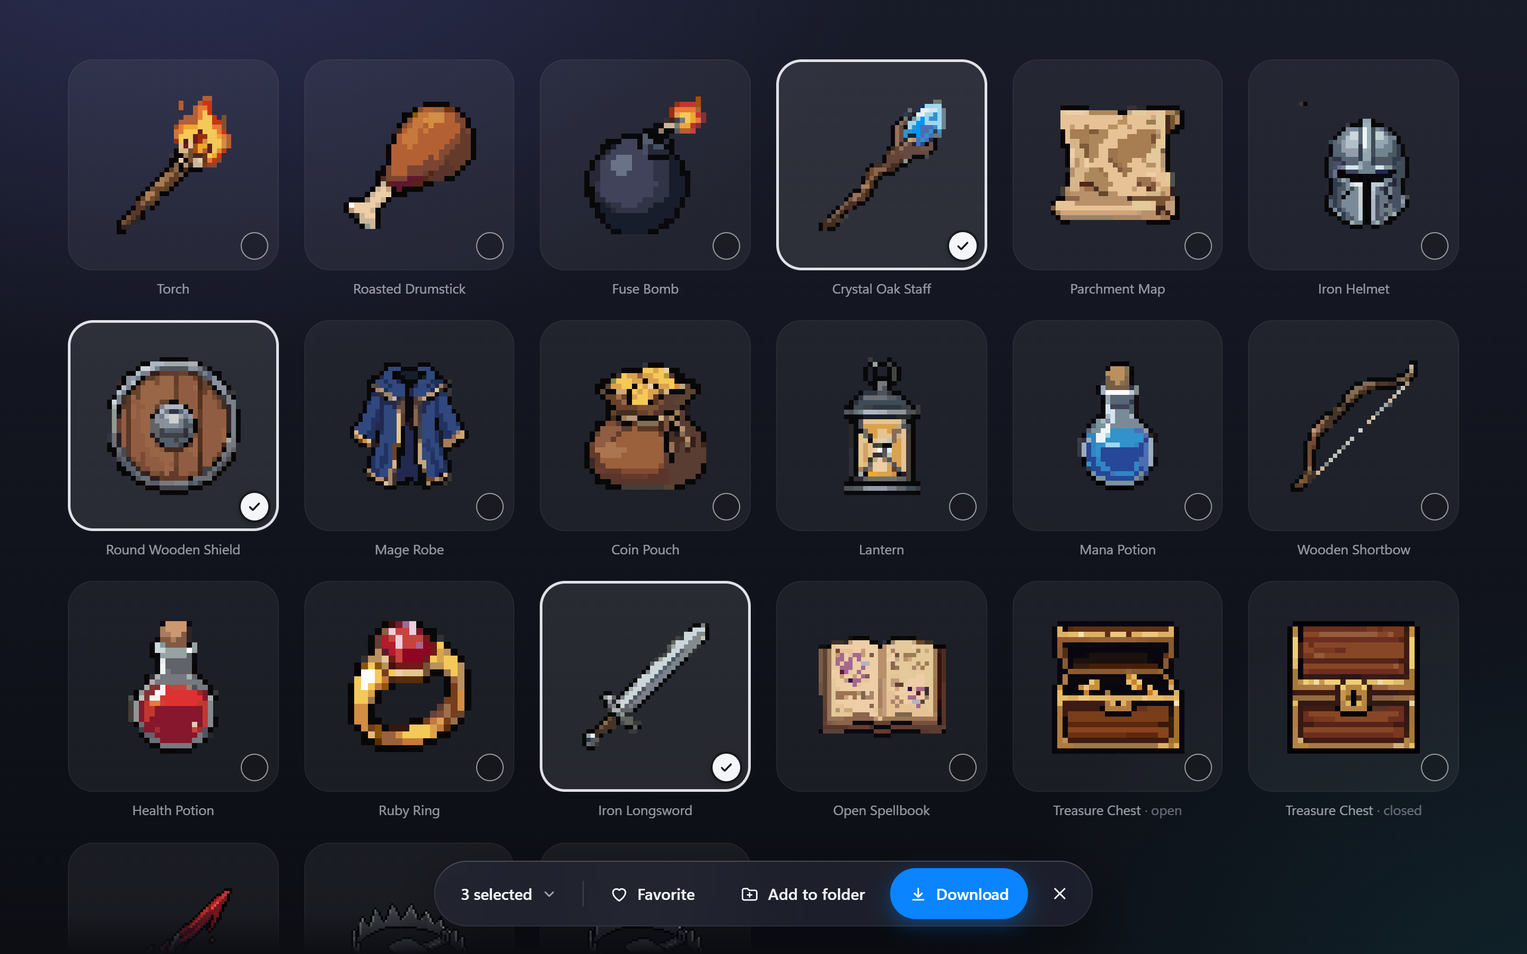
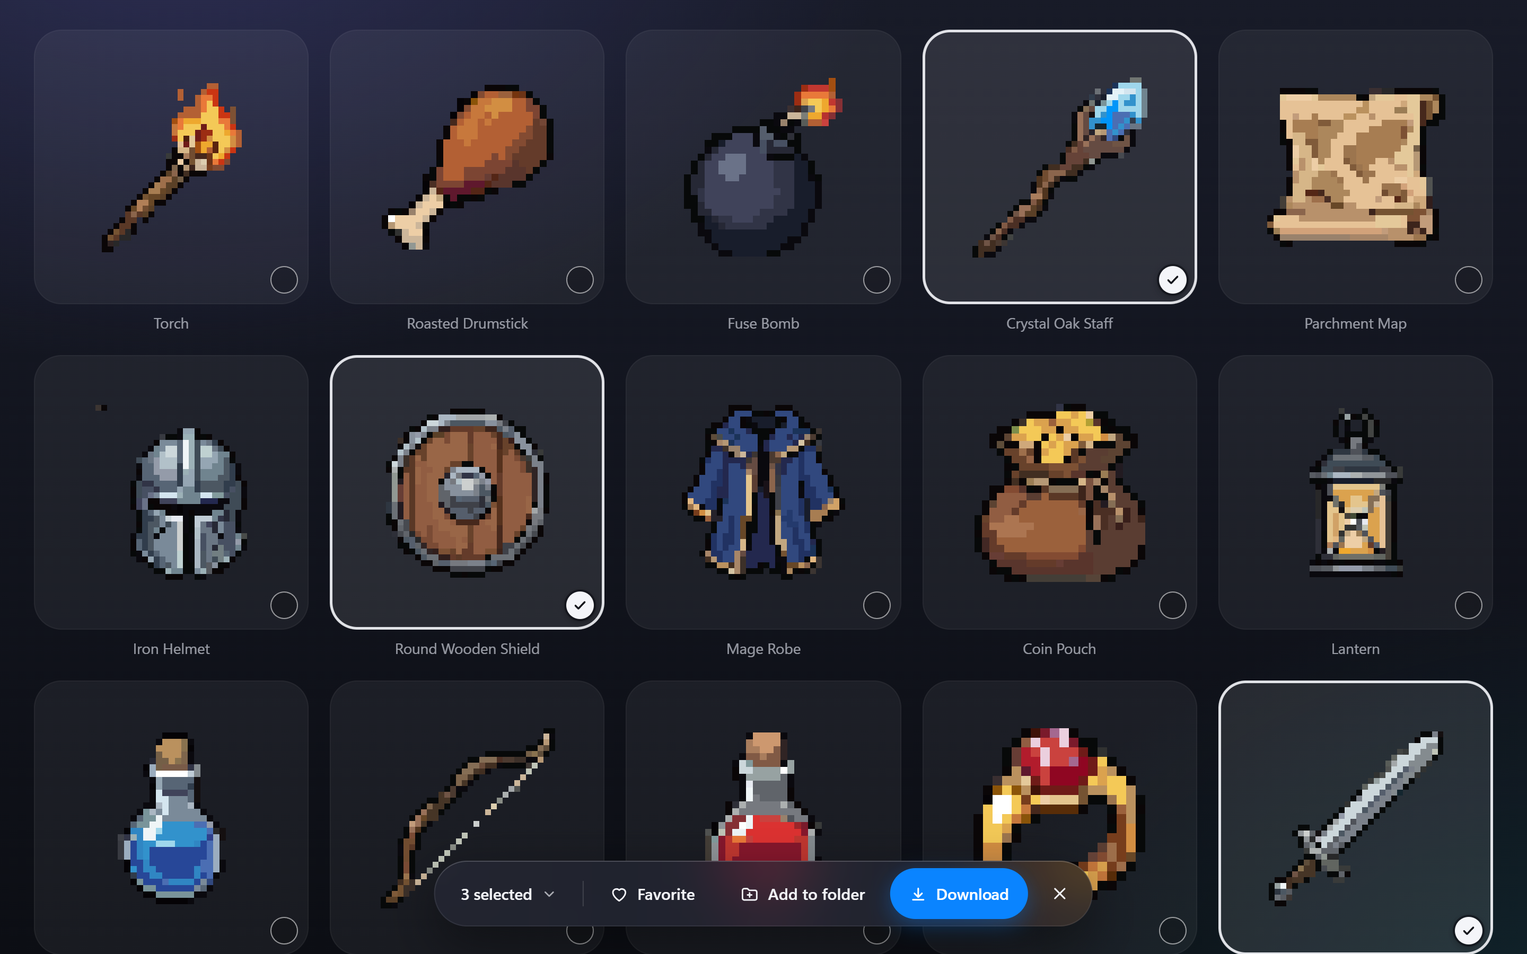
docs: enlarge glass library tiles to fill the screen
Bigger library tiles and asset cells run edge to edge and scroll
under the floating glass dock instead of leaving empty bands.

diff --git a/mockups/simple/4-glass-library/app.js b/mockups/simple/4-glass-library/app.js
@@ -34,17 +34,17 @@ const T = [
   ['Characters', n('Characters'), ['char-android-walk-east-f00', 'char-orb-mage-south', 'char-hooded-mage-south-east', 'char-hooded-mage-detailed-south-west']],
   ['Objects', n('Objects'), ['obj-bear-trap-open', 'obj-treasure-chest-closed', 'obj-crimson-lance', 'item-red-health-potion', 'item-iron-helmet', 'item-lantern', 'item-ruby-ring']],
   ['Images', n('Images'), ['creator-goblin-idle-f00', 'creator-white-bird-east', 'vfx-meteor-f12', 'creator-slime-sheet|cover|1', 'creator-fire-skill-icons|cover|1', 'creator-food-atlas|cover|1', 'creator-block-textures-16|cover|2']],
-  ['Tilesets & tiles', n('Tilesets & tiles'), ['tileset-topdown-dirt-grass-detailed|cover|4', 'tileset-topdown-stone-floor-wall|cover|4', 'iso-grass-block', 'tileset-side-frozen-ledge|full|0', 'iso-stone-slab', 'tilespro-wooden-stairs|full|0', 'tileset-side-dirt-grass|full|0']],
+  ['Tilesets & tiles', n('Tilesets & tiles'), ['tileset-topdown-dirt-grass-detailed|cover|7', 'tileset-topdown-stone-floor-wall|cover|7', 'iso-grass-block', 'tileset-side-frozen-ledge|full|0', 'iso-stone-slab', 'tilespro-wooden-stairs|full|0', 'tileset-side-dirt-grass|full|0']],
   ['Maps', n('Maps'), ['map-meadow-ruins|cover|2', 'mapobj-ruined-apartment', 'mapobj-wooden-staircase-west', 'mapobj-stone-steps-east']],
-  ['UI', n('UI'), ['ui-skill-icon-frames|cover|1', 'ui-gilded-panel-kit|cover|1', 'ui-stone-9slice-kit|cover|1', 'ui-rts-command-bar|cover|1', 'ui-fantasy-hud|cover|1', 'ui-rts-components|cover|1', 'font-tiny-mono-atlas|cover|2']],
+  ['UI', n('UI'), ['ui-skill-icon-frames|cover|2', 'ui-gilded-panel-kit|cover|1', 'ui-stone-9slice-kit|cover|1', 'ui-rts-command-bar|cover|1', 'ui-fantasy-hud|cover|1', 'ui-rts-components|cover|1', 'font-tiny-mono-atlas|cover|2']],
 ];
 const M = [
-  ['Favorites', D.favorites.length, ['char-android-walk-south-f00', 'vfx-meteor-f12', 'map-meadow-ruins|cover|2', 'tileset-topdown-dirt-grass-detailed|cover|2', 'creator-goblin-idle-f00', 'tileset-side-frozen-ledge|cover|1', 'obj-bear-trap-open'], 1],
+  ['Favorites', D.favorites.length, ['char-android-walk-south-f00', 'vfx-meteor-f12', 'map-meadow-ruins|cover|2', 'tileset-topdown-dirt-grass-detailed|cover|4', 'creator-goblin-idle-f00', 'tileset-side-frozen-ledge|cover|2', 'obj-bear-trap-open'], 1],
   ['Hero party', fn('fld_01'), ['char-orb-mage-south-east', 'char-hooded-mage-detailed-south', 'obj-crimson-lance', 'char-android-walk-south-f00', 'item-iron-longsword', 'item-oak-magic-staff-crystal', 'item-mage-robe'], 1],
-  ['Dungeon kit', fn('fld_02'), ['obj-treasure-chest-open', 'obj-bear-trap-closed', 'tileset-topdown-stone-floor-wall|cover|3', 'mapobj-wooden-staircase-west', 'iso-stone-slab', 'tileset-side-castle|cover|1', 'tilespro-wooden-stairs|cover|1'], 1],
-  ['UI pack', fn('fld_03'), ['ui-fantasy-hud|cover|1', 'ui-skill-icon-frames|cover|1', 'creator-fire-skill-icons|cover|1', 'ui-rts-components|cover|1', 'font-tiny-mono-atlas|cover|1', 'creator-cyan-skill-icons|cover|1', 'creator-skill-icons-pro|cover|1'], 1],
-  ['1-bit platformer', fn('fld_04'), ['tileset-side-castle|full|0', 'tileset-side-frozen-ledge|full|0', 'tileset-side-fang-ridge|full|0', 'tileset-side-rooted-soil|cover|1', 'tileset-side-worn-stone|cover|1'], 1],
-  ['Favorites to export', fn('fld_05'), ['vfx-meteor-f12', 'creator-goblin-idle-f00', 'creator-slime-sheet|cover|1', 'char-android-walk-south-f00', 'map-meadow-ruins|cover|1', 'tileset-topdown-dirt-grass-detailed|cover|1'], 1],
+  ['Dungeon kit', fn('fld_02'), ['obj-treasure-chest-open', 'obj-bear-trap-closed', 'tileset-topdown-stone-floor-wall|cover|7', 'mapobj-wooden-staircase-west', 'iso-stone-slab', 'tileset-side-castle|cover|2', 'tilespro-wooden-stairs|cover|4'], 1],
+  ['UI pack', fn('fld_03'), ['ui-fantasy-hud|cover|1', 'ui-skill-icon-frames|cover|2', 'creator-fire-skill-icons|cover|2', 'ui-rts-components|cover|1', 'font-tiny-mono-atlas|cover|2', 'creator-cyan-skill-icons|cover|1', 'creator-skill-icons-pro|cover|1'], 1],
+  ['1-bit platformer', fn('fld_04'), ['tileset-side-castle|full|0', 'tileset-side-frozen-ledge|full|0', 'tileset-side-fang-ridge|full|0', 'tileset-side-rooted-soil|cover|2', 'tileset-side-worn-stone|cover|2'], 1],
+  ['Favorites to export', fn('fld_05'), ['vfx-meteor-f12', 'creator-goblin-idle-f00', 'creator-slime-sheet|cover|1', 'char-android-walk-south-f00', 'map-meadow-ruins|cover|1', 'tileset-topdown-dirt-grass-detailed|cover|4'], 1],
 ];
 const mcell = c => { const [a, fit, s] = c.split('|'); return `<i data-art="${a}" data-pad="${fit === 'full' ? 0.1 : 0.06}"${fit ? ` data-fit="${fit}" data-s="${s}"` : ''}></i>`; };
 const tile = ([name, count, cells, folder]) => {
@@ -71,12 +71,12 @@ const dockCat = `<nav class="dock glass"><button class="seg back">${I.back}Libra
 
 function home() { add(`<main class="library">${T.map(tile).join('')}<div class="sec mine">Favorites and folders</div>${M.map(tile).join('')}</main>`); }
 function category(selected = []) {
-  add(`<main class="grid fade${selected.length ? ' selecting' : ''}">${objects.map(a => cell(a, selected.includes(a.id))).join('')}</main>`);
+  add(`<main class="grid${selected.length ? ' selecting' : ''}">${objects.map(a => cell(a, selected.includes(a.id))).join('')}</main>`);
 }
 function viewer(info) {
   const a = byId.chr_0004;
   document.body.className = 'viewer' + (info ? ' info' : '');
-  add(`<div class="stage"><i data-art="char-android-walk-east-f03" data-fit="full" data-pad="0.02"></i></div>`,
+  add(`<div class="stage"><i data-art="char-android-walk-east-f03" data-fit="full" data-pad="0"></i></div>`,
     `<button class="fab close glass" aria-label="Close">${I.x}</button>`,
     `<div class="fab vtitle"><b>${a.name}</b><span>Character</span></div>`,
     `<div class="fab caps glass"><button aria-label="Favorite">${I.heart}</button><button class="${info ? 'on' : ''}" aria-label="Info">${I.info}</button><button aria-label="More">${I.more}</button></div>`,
@@ -144,7 +144,7 @@ const SCREENS = {
     add(m); at(m, r.right - 330, r.top - m.offsetHeight - 14);
   },
   '09-folder-open': () => {
-    home();
+    home(); document.querySelector('main').scrollTop = 1e4; // scrolled to the folders row
     const f = D.folders[0];
     add('<div class="scrim"></div>', `<div class="fopen"><div class="ftitle">${f.name}<button class="round" aria-label="Folder actions">${I.more}</button></div>
       <div class="fpanel">${f.assetIds.map(id => cell(byId[id])).join('')}</div><div class="fmeta">${f.assetIds.length} assets</div></div>`,

diff --git a/mockups/simple/4-glass-library/style.css b/mockups/simple/4-glass-library/style.css
@@ -33,34 +33,33 @@ svg { width: 20px; height: 20px; fill: none; stroke: currentColor; stroke-width:
 
 /* Content: full-screen, edge to edge, scrolls under the floating glass */
 main { position: fixed; inset: 0; overflow: hidden; }
-.fade { -webkit-mask-image: linear-gradient(#000 calc(100% - 40px), transparent); mask-image: linear-gradient(#000 calc(100% - 40px), transparent); }
 
 /* Library home: App Library tiles */
-.library { padding: 150px 60px 0; display: grid; grid-template-columns: repeat(6, minmax(0, 1fr)); gap: 0 24px; align-content: start; }
-.sec { grid-column: 1 / -1; font-size: 13px; font-weight: 600; color: var(--text-2); padding: 0 6px 12px; }
-.sec.mine { padding-top: 40px; }
+.library { padding: 28px 40px 160px; display: grid; grid-template-columns: repeat(3, minmax(0, 1fr)); gap: 28px 28px; align-content: start; overflow: hidden; } /* bottom padding: the last row scrolls clear of the dock */
+.sec { grid-column: 1 / -1; font-size: 13px; font-weight: 600; color: var(--text-2); padding: 0 8px; margin-bottom: -14px; }
+.sec.mine { padding-top: 6px; }
 .tile { display: block; color: inherit; text-decoration: none; }
 .mosaic {
-  position: relative; aspect-ratio: 1; border-radius: 30px; padding: 8px;
-  display: grid; grid-template-columns: 1fr 1fr; grid-template-rows: 1fr 1fr; gap: 6px;
+  position: relative; aspect-ratio: 4 / 2.9; border-radius: 28px; padding: 9px;
+  display: grid; grid-template-columns: 1fr 1fr; grid-template-rows: 1fr 1fr; gap: 7px;
   background: rgba(16, 18, 26, .55); box-shadow: inset 0 0 0 1px var(--hair), 0 12px 30px rgba(0, 0, 0, .25);
 }
 .mosaic > i, .mini > i { background: rgba(255, 255, 255, .055); border-radius: 20px; }
-.mini { display: grid; grid-template-columns: 1fr 1fr; grid-template-rows: 1fr 1fr; gap: 5px; }
+.mini { display: grid; grid-template-columns: 1fr 1fr; grid-template-rows: 1fr 1fr; gap: 6px; }
 .mini > i { border-radius: 12px; }
 /* Folders (yours) use the lighter frosted fill of an iOS folder; types (automatic) are darker. */
 .folder .mosaic { background: rgba(205, 212, 235, .14); box-shadow: inset 0 1px 0 rgba(255,255,255,.10), inset 0 0 0 1px rgba(255,255,255,.06), 0 12px 30px rgba(0,0,0,.25); }
 .folder .mosaic > i, .folder .mini > i { background: rgba(0, 0, 0, .16); }
-.tlabel { display: flex; justify-content: space-between; align-items: baseline; padding: 10px 8px 0; }
-.tlabel b { font-weight: 600; font-size: 15px; letter-spacing: -.012em; }
+.tlabel { display: flex; justify-content: space-between; align-items: baseline; padding: 11px 8px 0; }
+.tlabel b { font-weight: 600; font-size: 16px; letter-spacing: -.012em; }
 .tlabel span { color: var(--text-2); font-variant-numeric: tabular-nums; }
 
 /* Category grid */
-.grid { padding: 56px 64px 0; display: grid; grid-template-columns: repeat(6, minmax(0, 1fr)); gap: 22px 24px; align-content: start; }
+.grid { padding: 28px 32px 160px; display: grid; grid-template-columns: repeat(5, minmax(0, 1fr)); gap: 20px 20px; align-content: start; }
 .cell { position: relative; }
-.cell .sq { position: relative; aspect-ratio: 1; border-radius: 24px; background: rgba(255, 255, 255, .055); box-shadow: inset 0 0 0 1px rgba(255,255,255,.04); }
+.cell .sq { position: relative; aspect-ratio: 1; border-radius: 26px; background: rgba(255, 255, 255, .055); box-shadow: inset 0 0 0 1px rgba(255,255,255,.04); }
 .cell .sq > i { position: absolute; inset: 0; }
-.cell .nm { display: block; text-align: center; padding-top: 8px; font-size: 13px; color: var(--text-2); white-space: nowrap; overflow: hidden; text-overflow: ellipsis; }
+.cell .nm { display: block; text-align: center; padding-top: 9px; font-size: 14px; color: var(--text-2); white-space: nowrap; overflow: hidden; text-overflow: ellipsis; }
 .cell .nm small { color: var(--text-3); font-size: 13px; }
 .cell .chk { position: absolute; right: 10px; bottom: 10px; width: 26px; height: 26px; border-radius: 50%; display: grid; place-items: center; background: #f4f5f9; color: #12141b; box-shadow: 0 0 0 2px rgba(12,14,20,.6), 0 2px 8px rgba(0,0,0,.4); }
 .cell .chk svg { width: 16px; height: 16px; stroke-width: 2.6; }
@@ -138,7 +137,7 @@ main { position: fixed; inset: 0; overflow: hidden; }
 .ftitle { display: flex; align-items: center; gap: 12px; font: 600 30px/1.1 -apple-system, "SF Pro Display", "Segoe UI Variable Display", system-ui, sans-serif; letter-spacing: -.015em; }
 .ftitle .round { width: 38px; height: 38px; background: rgba(255,255,255,.12); }
 .ftitle .round svg { width: 18px; height: 18px; }
-.fpanel { width: 900px; padding: 34px 38px 30px; border-radius: 44px; background: rgba(205, 212, 235, .13); display: grid; grid-template-columns: repeat(4, minmax(0, 1fr)); gap: 22px 26px; }
+.fpanel { width: 1160px; padding: 32px 36px 28px; border-radius: 44px; background: rgba(205, 212, 235, .13); display: grid; grid-template-columns: repeat(4, minmax(0, 1fr)); gap: 22px 26px; }
 .fpanel .sq { background: rgba(0, 0, 0, .24); }
 .fpanel .nm { color: rgba(244,245,249,.82); }
 .fmeta { color: var(--text-2); font-size: 13px; }
@@ -147,7 +146,7 @@ main { position: fixed; inset: 0; overflow: hidden; }
 /* Viewer */
 .viewer { background: #0c0c0f; }
 .stage { position: fixed; inset: 0; background: radial-gradient(760px 560px at var(--cx, 50%) 48%, #2a2c34, #16171c 58%, #0c0c0f); }
-.stage > i { position: absolute; top: 96px; bottom: 112px; left: 0; right: 0; }
+.stage > i { position: absolute; inset: 0; } /* controls float over the canvas margin, so the art fits the whole window */
 .info .stage > i { right: 420px; }
 .info { --cx: calc((100% - 420px) / 2); }
 .fab { position: fixed; z-index: 3; }

diff --git a/mockups/simple/4-glass-library/README.md b/mockups/simple/4-glass-library/README.md
@@ -5,23 +5,32 @@ Static storyboard for Vitrine (unofficial, view-only PixelLab gallery). Desktop 
 **Concept 4 = Concept 2's chrome + Concept 3's content.**
 
 - **From Concept 2 "Home Screen":** the glass look and the floating UI. Content fills the window edge to edge. There is no top bar, sidebar or page chrome. Navigation, search and options float above the content as glass, in one dock at the bottom centre. Overlays (context menu, folder) blur the screen behind them.
-- **From Concept 3 "Library Tiles":** the iOS App Library layout. The home shows six square category tiles with mosaic previews and counts (Characters, Objects, Images, Tilesets & tiles, Maps, UI), then Favorites and the folders as tiles of the same shape. Folders use the lighter frosted fill of an iOS folder, and types use a darker fill, so "mine" and "automatic" read differently.
+- **From Concept 3 "Library Tiles":** the iOS App Library layout, at Concept 3's scale. The home shows six big category tiles with mosaic previews and counts (Characters, Objects, Images, Tilesets & tiles, Maps, UI), then Favorites and the folders as tiles of the same shape. Folders use the lighter frosted fill of an iOS folder, and types use a darker fill, so "mine" and "automatic" read differently.
 - **The dock changes with context** instead of adding bars. On the home it holds Library, Search and "…". In a category it becomes a breadcrumb ("‹ Library | Objects 21") with Search, Select and "…". In selection mode it becomes the selection bar. In the viewer it becomes the viewer dock. One container, always in the same place.
 - Download is the only accent colour, in the viewer and in the selection bar. The library screens have no accent.
+
+## Layout and scale (1440×900)
+
+- **Content fills the screen.** It starts 28 px from the top, runs to the bottom edge, and scrolls under the floating dock. Each grid has 160 px of bottom scroll padding so its last row can scroll clear of the dock. In every library screenshot the dock floats over tiles.
+- **Home:** 3 tiles per row, each about 434×315 px, with 40 px side margins and 28 px gutters. Mosaic cells are about 205×146 px, so the art reads clearly. The two type rows fill the first screen, and the "Favorites and folders" header and the top of the folder row sit under the dock, which tells you the page scrolls.
+- **Category grid:** 5 columns of square cells, about 259 px each, edge to edge with 32 px margins and 20 px gutters. A 32 px item draws at 11 device px per art px (5.5× in CSS px). The third row runs under the dock.
+- **Viewer:** the stage fits the whole canvas to the whole window, because the controls float over the canvas's transparent margin. The 128 px Android Courier draws at 14 device px per art px (7× in CSS px), the largest integer scale that fits 900 px. It keeps 7× with the Info panel open.
+- **Folder overlay:** a 1,160 px panel with 4 columns of about 252 px cells.
+- **Menus and panels:** unchanged in size. They are text, not art.
 
 ## Storyboard
 
 | # | Image | What the user pressed | What changed |
 |---|---|---|---|
-| 1 | `01-home.png` | Opened Vitrine | 6 type tiles, then "Favorites and folders" (Favorites plus 5 folders), all on one screen. Floating glass dock: **Library** (current, shown as the selected segment), **Search 75 assets** `/`, **…** |
+| 1 | `01-home.png` | Opened Vitrine | 6 big type tiles fill the screen. The "Favorites and folders" row (Favorites plus 5 folders) starts under the dock. Floating glass dock: **Library** (current, shown as the selected segment), **Search 75 assets** `/`, **…** |
 | 2 | `02-search-focused.png` | Search pill (or `/`) | The pill expands into a focused field. Library and "…" collapse into one round Library button, and the library dims a little. A glass panel rises above the dock: Recent searches, Go to (types and folders as small tiles with counts), Recently added assets, and **Show all 75 assets**. Typing replaces the panel with results; types and folders still match as Go to rows |
-| 3 | `03-category-open.png` | The Objects tile (on 01) | Full-screen grid of the 21 completed objects: square cells, integer-scaled art, quiet names, and states appended to look-alikes ("Treasure Chest · open"). The dock becomes **‹ Library** · "Objects 21" · Search · **Select** · **…**. The fourth row scrolls under the glass dock |
+| 3 | `03-category-open.png` | The Objects tile (on 01) | Full-screen grid of the 21 completed objects: square cells, integer-scaled art, quiet names, and states appended to look-alikes ("Treasure Chest · open"). The dock becomes **‹ Library** · "Objects 21" · Search · **Select** · **…**. The third row scrolls under the glass dock |
 | 4 | `04-context-menu.png` | Right-click or long press on Crystal Oak Staff | The tile lifts and the rest of the screen (dock included) blurs. Glass menu: **Open · Favorite · Add to folder… · Download… (PNG) · Select** |
 | 5 | `05-select-mode.png` | Select (in the menu or the dock), then 2 more cells | Selected cells get a white ring and a check, and the others show empty circles. The dock becomes the selection bar: **3 selected ▾ · Favorite · Add to folder · Download** (accent) **· ✕** |
-| 6 | `06-detail.png` | ✕, then a click on Android Courier | Full-screen stage, Walk · East, mid-stride (frame 4 of 8), at the largest integer zoom. Glass ✕ top left, a glass capsule top right (♡ ⓘ …), and the name "Android Courier · Character" at the top, which fades after about 2 s. The dock becomes the viewer dock: **Walk · East ▾** and **Download GIF ▾** |
+| 6 | `06-detail.png` | ✕, then a click on Android Courier | Full-screen stage, Walk · East, mid-stride (frame 4 of 8), at 7× (the largest integer zoom that fits the window). Glass ✕ top left, a glass capsule top right (♡ ⓘ …), and the name "Android Courier · Character" at the top, which fades after about 2 s. The dock becomes the viewer dock: **Walk · East ▾** and **Download GIF ▾** |
 | 7 | `07-detail-info.png` | ⓘ | A floating glass panel on the right with an Apple grouped list: name, type, size, directions, animations, frames, view and created; the prompt with **Copy**; In folders (rows that open each folder); and a quiet **Open in PixelLab ↗**. The art and the dock re-centre in the space left over |
 | 8 | `08-download-menu.png` | The Download ▾ chevron | A glass menu above the button: **GIF** (Walk · East · 8 fps, the default, ✓), **Sprite sheet (ZIP)** (PNG + JSON), **All frames (ZIP)**, **PixelLab original (ZIP)**, then **Download options…** |
-| 9 | `09-folder-open.png` | ✕ back to the home, then the Hero party tile | An iOS-style folder overlay over the blurred library: folder name with **…** (Download all, Rename, Delete folder), its 8 assets with names, the count, and a visible **✕** |
+| 9 | `09-folder-open.png` | ✕ back to the home, scrolled to the folders, then the Hero party tile | An iOS-style folder overlay over the blurred library (large 4-column tiles): folder name with **…** (Download all, Rename, Delete folder), its 8 assets with names, the count, and a visible **✕** |
 | 10 | `10-more-menu.png` | Dock **…** on the home | A glass menu above the dock: **Sort** (Newest, expands in place), **Grid size** S/M/L/XL, **Play previews** switch, **Download all 75…**, **Sync now** (Synced just now), **1 generating in PixelLab ↗**, **Keyboard shortcuts** `?`, **Settings…** |
 
 The PNGs carry no captions; this table is the caption.
@@ -71,8 +80,8 @@ Every hidden route below also has a labelled, visible path.
 ## Phone mapping
 
 - **Dock:** the same floating glass pill, in the thumb zone with safe-area padding. On the home: Library · search icon · …. The search icon expands into a full-width field with Cancel, and the search panel becomes a full-height sheet above the keyboard.
-- **Home:** 2 columns of square tiles (the real iOS App Library), with types first and then "Favorites and folders". It scrolls.
-- **Category:** 3 columns with names under the cells. The dock becomes ‹ · Objects · search icon · Select · … (the title truncates first).
+- **Home:** 2 columns of square tiles (the real iOS App Library), with types first and then "Favorites and folders". The content scrolls under the floating dock, as on desktop.
+- **Category:** 2–3 columns with names under the cells. The dock becomes ‹ · Objects · search icon · Select · … (the title truncates first).
 - **Input:** tap opens. Long press opens the context menu (one meaning everywhere), and its **Select** item enters selection. The selection bar replaces the dock, with icons only plus "3 ▾".
 - **Folder overlay:** near full screen, with ✕ and …; swiping down closes it.
 - **Viewer:** ✕ top left and the ♡ ⓘ … capsule top right. The dock becomes a full-width **Download GIF ▾** with the Walk · East chip just above it. Info and the Download menu open as bottom sheets.
@@ -80,11 +89,14 @@ Every hidden route below also has a labelled, visible path.
 ## Honest weaknesses
 
 - **Every visit costs an extra click before any full-size art.** The home only shows mosaics (Concept 3's main weakness). Recently added helps only once Search is open.
+- **Folders sit below the fold.** With big tiles, the first screen shows the six types, and Favorites and folders need a scroll. Search "Go to" and the ⓘ folder rows are the shortcuts.
 - **All assets has one visible path, behind Search.** It is labelled ("Show all 75 assets"), but it is not on the home. Anyone who browses everything will reach for it every time.
 - **The dock carries a lot.** It changes role five times (home, search, category, selection, viewer). That keeps chrome in one place, but users must notice that the same pill now means something else. The category breadcrumb, with 4 controls plus a title, is the dock's widest and busiest state.
-- **Glass over art costs contrast.** The dock (62% tint) and the menus (80%) read well over the dark grid and over the bright row that scrolls under the dock in 03 and 05. Very bright, saturated art (the map, the green tilesets) directly under a glass edge still muddies the blur and shows colour fringes (see the folder panel in 09). A real build needs a contrast check per backdrop, or a stronger scrim when bright art sits under glass.
+- **Glass over art costs contrast.** The dock (62% tint) and the menus (80%) read well over the dark grid and over the bright rows that scroll under them in 01, 03, 05 and 10. Very bright, saturated art (the map, the green tilesets) directly under a glass edge still muddies the blur and shows colour fringes (see the folder panel in 09). A real build needs a contrast check per backdrop, or a stronger scrim when bright art sits under glass.
 - **The six types are fixed.** A library with 3 characters and 900 images gets tiles of equal size. Empty types must hide, which changes the layout. At 20 or more folders, the "Favorites and folders" row needs to scroll or become an "All folders" tile.
-- **Mosaic cells are small at 6 columns** (about 90 px). Atlases and UI sheets crop into busy noise next to single sprites (see the Images, UI and UI pack tiles). The mosaics also need a picking rule (newest, favourites or most varied).
+- **Atlases and UI sheets crop into busy noise** next to single sprites, even in big mosaic cells (see the Images and UI tiles). The mosaics also need a picking rule (newest, favourites or most varied).
+- **Content under the dock must stay legible.** At 5 columns a whole cell can sit under the dock or the selection bar (05). That is acceptable while scrolling, and the bottom padding lets the last row clear the dock.
+- **Fit-to-window art crowds the floating controls.** At 7× the Courier's head nearly touches the fading title, and its feet sit just above the dock. Tighter canvases (trimmed sprites, tall map objects) could run under the controls. A real viewer should drop one integer step when the opaque art would meet a control.
 - **Grid size and Sort sit in the home "…" menu,** where they apply only after you open a category. The home's own layout ignores them.
 - **Breaks with 08:** review badges, progress rings and "Generating…" cells are hidden here, as 08 rules (the grid shows completed assets only). The counts reflect that (75 assets, Objects 21), and the 1 generating asset lives in the "…" menu.
 - **Static images only.** They do not show the tile-to-grid zoom transition, the dock morphing, the search panel while typing, hover cues, scrolling, or the cost of rendering backdrop blur over a large grid.
